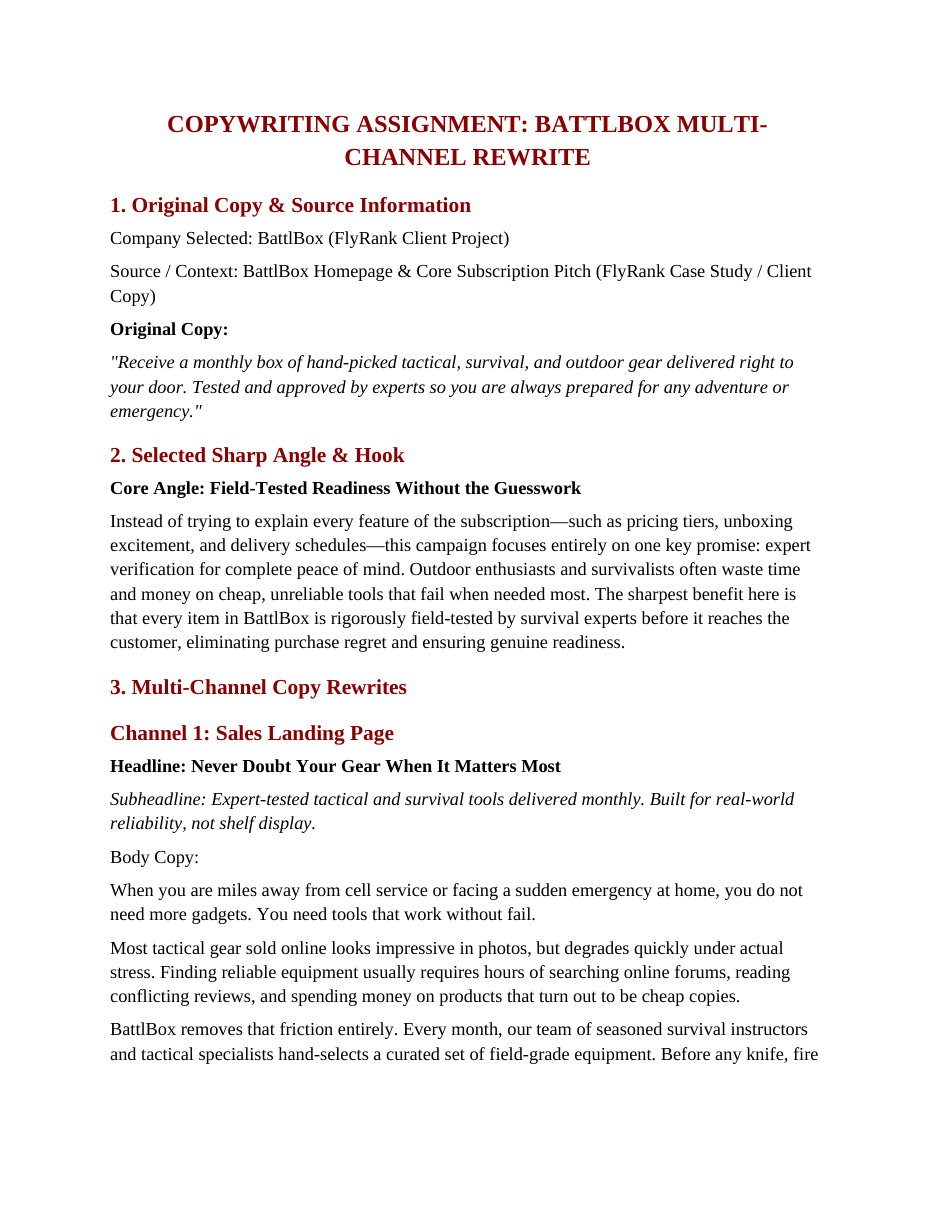
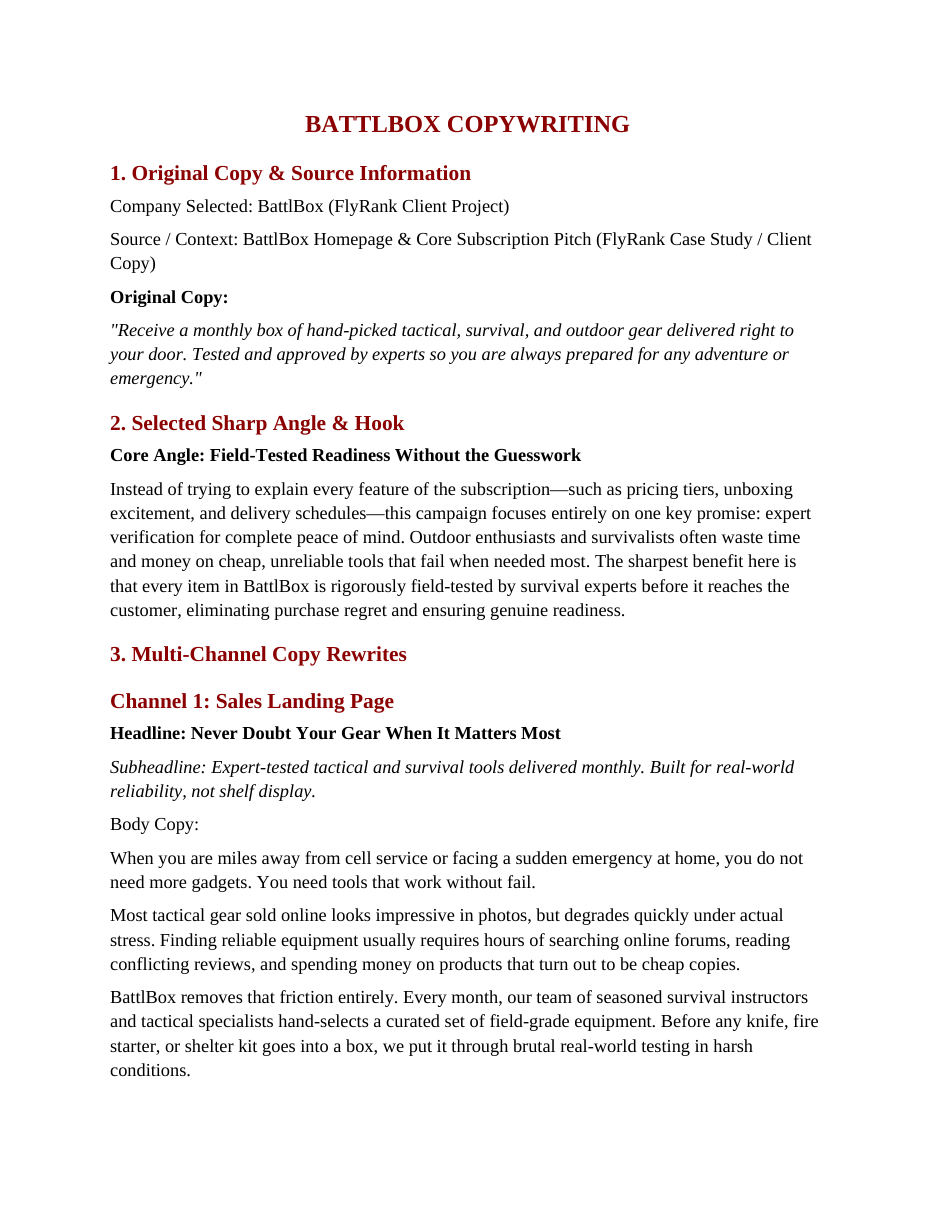
Use PDF first-page previews for Brand Voice, Copywriting and FlyRank cards

Changed region(s): [[0.1241, 0.0917, 0.8684, 0.8868]]

diff --git a/src/routes/ai-lab.tsx b/src/routes/ai-lab.tsx
@@ -15,7 +15,7 @@ const SELECTED_PROJECTS = [
   },
   {
     href: '/assets/ai-lab/battlbox-brand-voice-weekly-content-system.pdf',
-    preview: '/assets/ai-lab/previews/battlbox-brand-voice-weekly-content-system.svg',
+    preview: '/assets/ai-lab/previews/battlbox-brand-voice-weekly-content-system.png',
     title: 'BattlBox Brand Voice & Weekly Content System',
   },
   {
@@ -40,7 +40,7 @@ const SELECTED_PROJECTS = [
   },
   {
     href: '/assets/ai-lab/flyrank-landing-page.pdf',
-    preview: '/assets/ai-lab/previews/flyrank-landing-page.svg',
+    preview: '/assets/ai-lab/previews/flyrank-landing-page.png',
     title: 'Landing Page for FlyRank',
   },
   {
